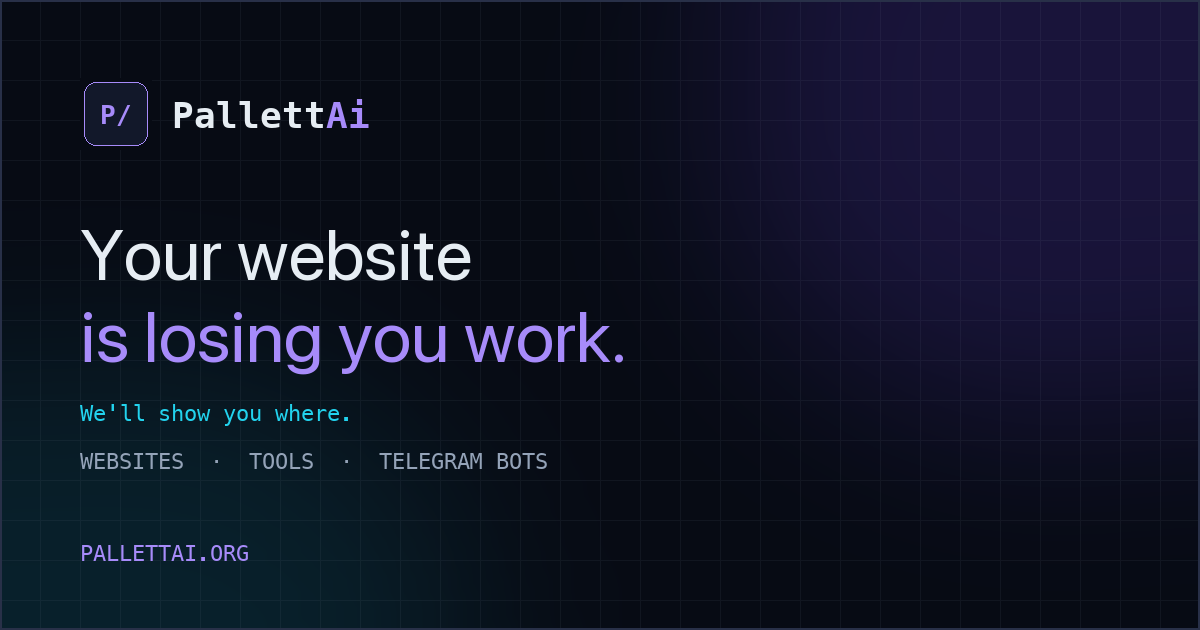
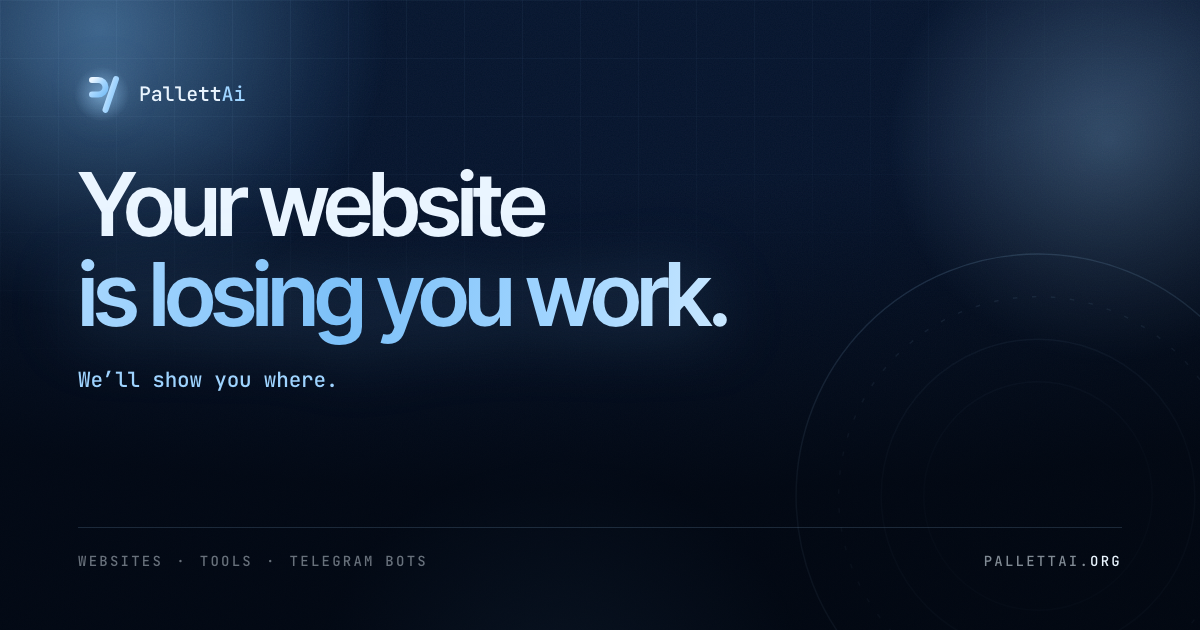
Give the brand a mark drawn for a square, and use it in the header, tab and share card.
signal-logo.svg is a 720x220 wordmark, so forcing it into the square nav slot compressed the wave and the lettering into an unreadable smear, and it was still drawn in the old violet. signal-mark.svg is the P/ monogram drawn for a square, sized to still read at 16px. The favicon, Apple touch icon and OG share card are all regenerated from it, and the favicon cache key is bumped because ?v=2 still resolves to the cached purple one.

Generated with Codebuff 🤖

diff --git a/theme.css b/theme.css
@@ -100,10 +100,13 @@ h2.big{font-size:clamp(31px,4.3vw,58px)}
 .nav-in{display:flex;align-items:center;gap:22px;height:60px;padding:0 10px 0 20px;border-radius:999px;border:1px solid transparent;transition:background .4s var(--ease),border-color .4s var(--ease),box-shadow .4s var(--ease),backdrop-filter .4s}
 .nav.stuck .nav-in{background:rgba(5,20,44,.66);backdrop-filter:blur(20px) saturate(150%);-webkit-backdrop-filter:blur(20px) saturate(150%);border-color:var(--hair);box-shadow:0 18px 50px rgba(2,8,20,.5)}
 .brand{position:relative;display:flex;align-items:center;gap:10px;font-family:var(--mono);font-size:14px}
-.brand img{position:relative;z-index:1;width:27px;height:27px;filter:brightness(1.2) drop-shadow(0 0 12px rgba(159,212,255,.5))}
+/* flex:0 0 auto — the brand sits in a flex row, and without it a crowded header
+   shrinks the mark until it disappears. Same failure the wordmark hit when a
+   720x220 asset was squeezed into a square box. */
+.brand img,.brand svg{position:relative;z-index:1;flex:0 0 auto;width:30px;height:30px;filter:drop-shadow(0 0 12px rgba(159,212,255,.5))}
 /* the mark's pulse: an opacity/scale halo, not an animated drop-shadow. A filter
    animation on a fixed element repaints it every frame; this composites. */
-.brand::before{content:"";position:absolute;left:-4px;top:50%;width:35px;height:35px;margin-top:-17.5px;border-radius:50%;
+.brand::before{content:"";position:absolute;left:-2px;top:50%;width:38px;height:38px;margin-top:-19px;border-radius:50%;
   background:radial-gradient(closest-side,rgba(159,212,255,.55),transparent 74%);
   animation:haloPulse 6.5s ease-in-out infinite;pointer-events:none}
 @keyframes haloPulse{0%,100%{opacity:.3;transform:scale(.82)}50%{opacity:.95;transform:scale(1.4)}}

diff --git a/pricing.html b/pricing.html
@@ -26,7 +26,7 @@
   <title>Website Pricing — Builds &amp; Aftercare | PallettAi</title>
   <meta http-equiv="Content-Security-Policy" content="default-src 'self'; script-src 'self' https://gc.zgo.at; style-src 'self' 'unsafe-inline'; font-src 'self'; img-src 'self' data: https:; connect-src 'self' https://formspree.io https://pallettai-grader.coreypallett20.workers.dev https://pallettai.goatcounter.com; object-src 'none'; base-uri 'self'; form-action https://formspree.io; frame-src 'none'" />
   <link rel="icon" type="image/png" sizes="32x32" href="favicon-32.png" />
-  <link rel="icon" type="image/svg+xml" href="signal-favicon.svg?v=2" />
+  <link rel="icon" type="image/svg+xml" href="signal-favicon.svg?v=3" />
   <link rel="apple-touch-icon" href="apple-touch-icon.png" />
   <link rel="preload" href="fonts/inter-tight-latin-600.woff2" as="font" type="font/woff2" crossorigin />
   <link rel="stylesheet" href="theme.css" />

diff --git a/index.html b/index.html
@@ -26,7 +26,7 @@
   <title>Website Design &amp; Development UK | PallettAi</title>
   <meta http-equiv="Content-Security-Policy" content="default-src 'self'; script-src 'self' https://gc.zgo.at; style-src 'self' 'unsafe-inline'; font-src 'self'; img-src 'self' data: https:; connect-src 'self' https://formspree.io https://pallettai-grader.coreypallett20.workers.dev https://pallettai.goatcounter.com; object-src 'none'; base-uri 'self'; form-action https://formspree.io; frame-src 'none'" />
   <link rel="icon" type="image/png" sizes="32x32" href="favicon-32.png" />
-  <link rel="icon" type="image/svg+xml" href="signal-favicon.svg?v=2" />
+  <link rel="icon" type="image/svg+xml" href="signal-favicon.svg?v=3" />
   <link rel="apple-touch-icon" href="apple-touch-icon.png" />
   <link rel="preconnect" href="https://gc.zgo.at" crossorigin />
   <link rel="preconnect" href="https://formspree.io" />

diff --git a/downloads.html b/downloads.html
@@ -26,7 +26,7 @@
   <title>Downloads — PallettAi Studio | PallettAi</title>
   <meta http-equiv="Content-Security-Policy" content="default-src 'self'; script-src 'self' https://gc.zgo.at; style-src 'self' 'unsafe-inline'; font-src 'self'; img-src 'self' data: https:; connect-src 'self' https://formspree.io https://pallettai.goatcounter.com; object-src 'none'; base-uri 'self'; form-action https://formspree.io; frame-src 'none'" />
   <link rel="icon" type="image/png" sizes="32x32" href="favicon-32.png" />
-  <link rel="icon" type="image/svg+xml" href="signal-favicon.svg?v=2" />
+  <link rel="icon" type="image/svg+xml" href="signal-favicon.svg?v=3" />
   <link rel="apple-touch-icon" href="apple-touch-icon.png" />
   <link rel="preconnect" href="https://formspree.io" />
   <link rel="stylesheet" href="terminal.css?v=5" />

diff --git a/telegram.html b/telegram.html
@@ -26,7 +26,7 @@
   <title>Ghost Arb Bot — Telegram Case Study | PallettAi</title>
   <meta http-equiv="Content-Security-Policy" content="default-src 'self'; script-src 'self' https://gc.zgo.at; style-src 'self' 'unsafe-inline'; font-src 'self'; img-src 'self' data: https:; connect-src 'self' https://pallettai.goatcounter.com; object-src 'none'; base-uri 'self'; form-action 'none'; frame-src 'none'" />
   <link rel="icon" type="image/png" sizes="32x32" href="favicon-32.png" />
-  <link rel="icon" type="image/svg+xml" href="signal-favicon.svg?v=2" />
+  <link rel="icon" type="image/svg+xml" href="signal-favicon.svg?v=3" />
   <link rel="apple-touch-icon" href="apple-touch-icon.png" />
   <link rel="preload" as="image" href="ghost-arb/profit/03.jpg" />
   <link rel="stylesheet" href="terminal.css?v=5" />

diff --git a/live.html b/live.html
@@ -26,7 +26,7 @@
   <title>Live Projects — Websites & Bots in Development | PallettAi</title>
   <meta http-equiv="Content-Security-Policy" content="default-src 'self'; script-src 'self' https://gc.zgo.at; style-src 'self' 'unsafe-inline'; font-src 'self'; img-src 'self' data: https:; connect-src 'self' https://pallettai.goatcounter.com; object-src 'none'; base-uri 'self'; form-action 'none'; frame-src 'none'" />
   <link rel="icon" type="image/png" sizes="32x32" href="favicon-32.png" />
-  <link rel="icon" type="image/svg+xml" href="signal-favicon.svg?v=2" />
+  <link rel="icon" type="image/svg+xml" href="signal-favicon.svg?v=3" />
   <link rel="apple-touch-icon" href="apple-touch-icon.png" />
   <link rel="stylesheet" href="terminal.css?v=5" />
   <link rel="stylesheet" href="theme.css" />

diff --git a/portfolio.html b/portfolio.html
@@ -26,7 +26,7 @@
   <title>Website Design Portfolio UK | PallettAi Showcase</title>
   <meta http-equiv="Content-Security-Policy" content="default-src 'self'; script-src 'self' https://gc.zgo.at; style-src 'self' 'unsafe-inline'; font-src 'self'; img-src 'self' data: https:; connect-src 'self' https://pallettai.goatcounter.com; object-src 'none'; base-uri 'self'; form-action 'none'; frame-src 'none'" />
   <link rel="icon" type="image/png" sizes="32x32" href="favicon-32.png" />
-  <link rel="icon" type="image/svg+xml" href="signal-favicon.svg?v=2" />
+  <link rel="icon" type="image/svg+xml" href="signal-favicon.svg?v=3" />
   <link rel="apple-touch-icon" href="apple-touch-icon.png" />
   <link rel="stylesheet" href="terminal.css?v=5" />
   <link rel="stylesheet" href="theme.css" />

diff --git a/changelog.html b/changelog.html
@@ -26,7 +26,7 @@
   <title>Changelog — PallettAi Studio | PallettAi</title>
   <meta http-equiv="Content-Security-Policy" content="default-src 'self'; script-src 'self' https://gc.zgo.at; style-src 'self' 'unsafe-inline'; font-src 'self'; img-src 'self' data: https:; connect-src 'self' https://pallettai.goatcounter.com; object-src 'none'; base-uri 'self'; form-action 'none'; frame-src 'none'" />
   <link rel="icon" type="image/png" sizes="32x32" href="favicon-32.png" />
-  <link rel="icon" type="image/svg+xml" href="signal-favicon.svg?v=2" />
+  <link rel="icon" type="image/svg+xml" href="signal-favicon.svg?v=3" />
   <link rel="apple-touch-icon" href="apple-touch-icon.png" />
   <link rel="stylesheet" href="terminal.css?v=5" />
   <link rel="stylesheet" href="theme.css" />

diff --git a/404.html b/404.html
@@ -126,7 +126,7 @@
   <title>Page not found — PallettAi</title>
   <meta http-equiv="Content-Security-Policy" content="default-src 'self'; script-src 'self' 'unsafe-inline'; style-src 'self' 'unsafe-inline'; img-src 'self' data: https:; font-src 'self'; connect-src 'self' https://fjahxichioccknszuxhb.supabase.co; frame-ancestors 'none'; form-action 'self'; object-src 'none'; base-uri 'self'" />
   <link rel="icon" type="image/png" sizes="32x32" href="favicon-32.png" />
-  <link rel="icon" type="image/svg+xml" href="signal-favicon.svg?v=2" />
+  <link rel="icon" type="image/svg+xml" href="signal-favicon.svg?v=3" />
   <link rel="apple-touch-icon" href="apple-touch-icon.png" />
   <link rel="stylesheet" href="terminal.css?v=5" />
   <link rel="stylesheet" href="theme.css" />

diff --git a/terms.html b/terms.html
@@ -26,7 +26,7 @@
   <title>Terms of Service — PallettAi</title>
   <meta http-equiv="Content-Security-Policy" content="default-src 'self'; script-src 'self' https://gc.zgo.at; style-src 'self' 'unsafe-inline'; font-src 'self'; img-src 'self' data: https:; connect-src 'self' https://pallettai.goatcounter.com; object-src 'none'; base-uri 'self'; form-action 'none'; frame-src 'none'" />
   <link rel="icon" type="image/png" sizes="32x32" href="favicon-32.png" />
-  <link rel="icon" type="image/svg+xml" href="signal-favicon.svg?v=2" />
+  <link rel="icon" type="image/svg+xml" href="signal-favicon.svg?v=3" />
   <link rel="apple-touch-icon" href="apple-touch-icon.png" />
   <link rel="stylesheet" href="terminal.css?v=5" />
   <link rel="stylesheet" href="theme.css" />

diff --git a/privacy.html b/privacy.html
@@ -26,7 +26,7 @@
   <title>Privacy Policy — PallettAi</title>
   <meta http-equiv="Content-Security-Policy" content="default-src 'self'; script-src 'self' https://gc.zgo.at; style-src 'self' 'unsafe-inline'; font-src 'self'; img-src 'self' data: https:; connect-src 'self' https://pallettai.goatcounter.com; object-src 'none'; base-uri 'self'; form-action 'none'; frame-src 'none'" />
   <link rel="icon" type="image/png" sizes="32x32" href="favicon-32.png" />
-  <link rel="icon" type="image/svg+xml" href="signal-favicon.svg?v=2" />
+  <link rel="icon" type="image/svg+xml" href="signal-favicon.svg?v=3" />
   <link rel="apple-touch-icon" href="apple-touch-icon.png" />
   <link rel="stylesheet" href="terminal.css?v=5" />
   <link rel="stylesheet" href="theme.css" />

diff --git a/support.html b/support.html
@@ -26,7 +26,7 @@
   <title>Support — PallettAi</title>
   <meta http-equiv="Content-Security-Policy" content="default-src 'self'; script-src 'self' https://gc.zgo.at; style-src 'self' 'unsafe-inline'; font-src 'self'; img-src 'self' data: https:; connect-src 'self' https://pallettai.goatcounter.com; object-src 'none'; base-uri 'self'; form-action 'none'; frame-src 'none'" />
   <link rel="icon" type="image/png" sizes="32x32" href="favicon-32.png" />
-  <link rel="icon" type="image/svg+xml" href="signal-favicon.svg?v=2" />
+  <link rel="icon" type="image/svg+xml" href="signal-favicon.svg?v=3" />
   <link rel="apple-touch-icon" href="apple-touch-icon.png" />
   <link rel="stylesheet" href="terminal.css?v=5" />
   <link rel="stylesheet" href="theme.css" />
